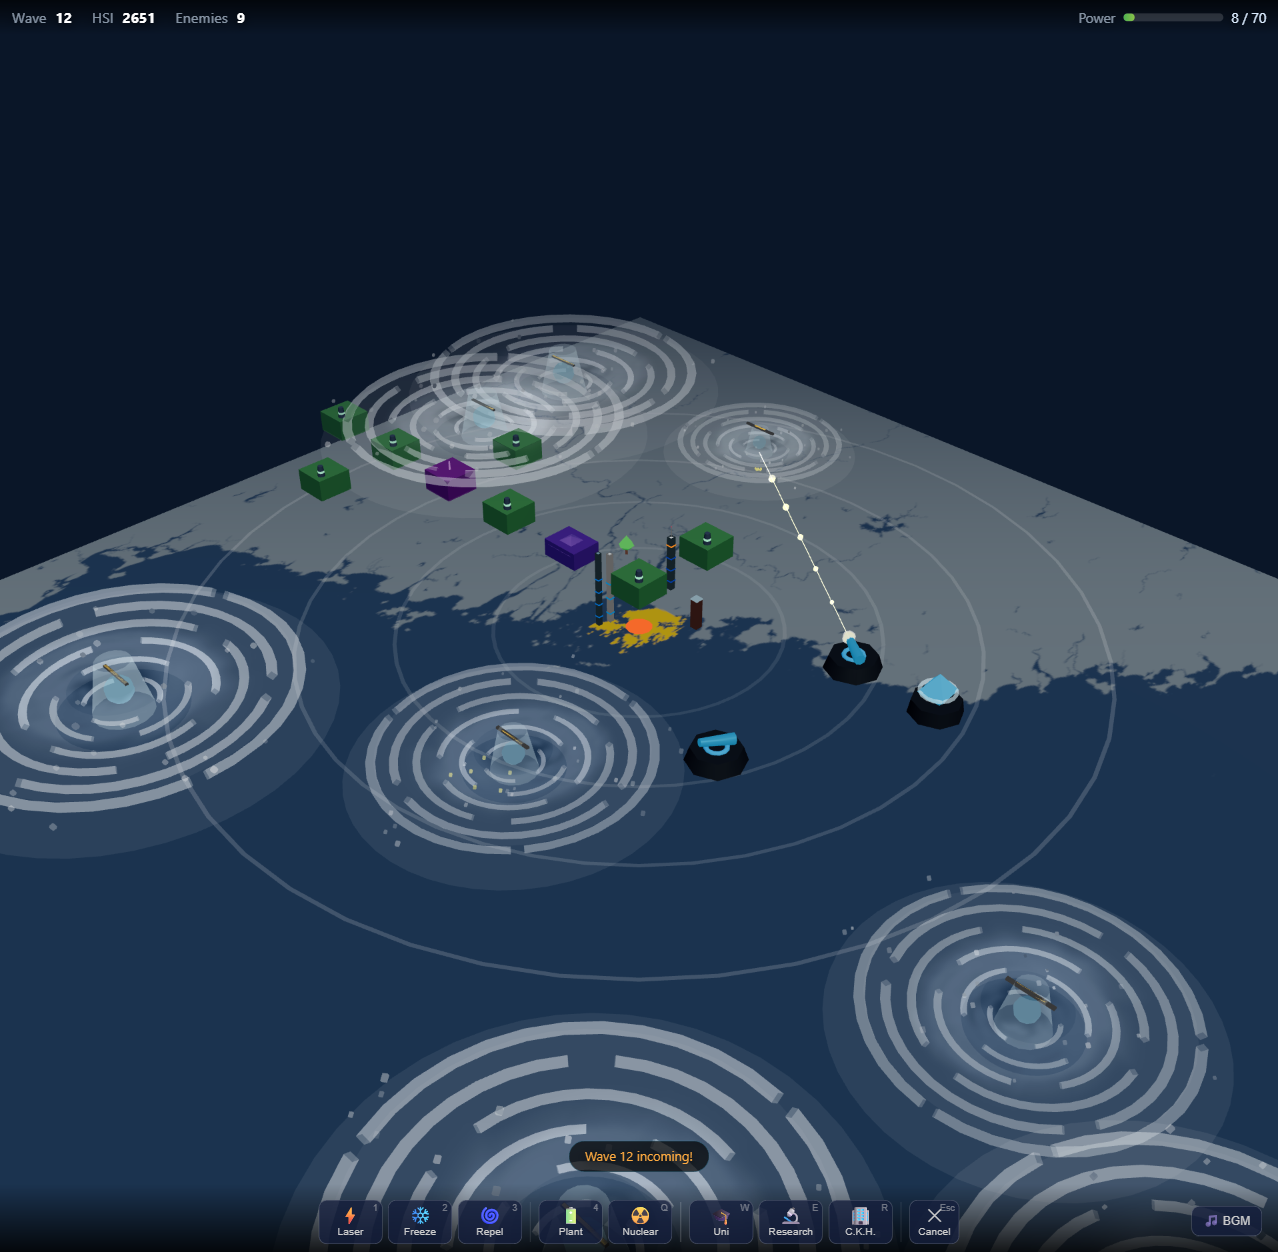
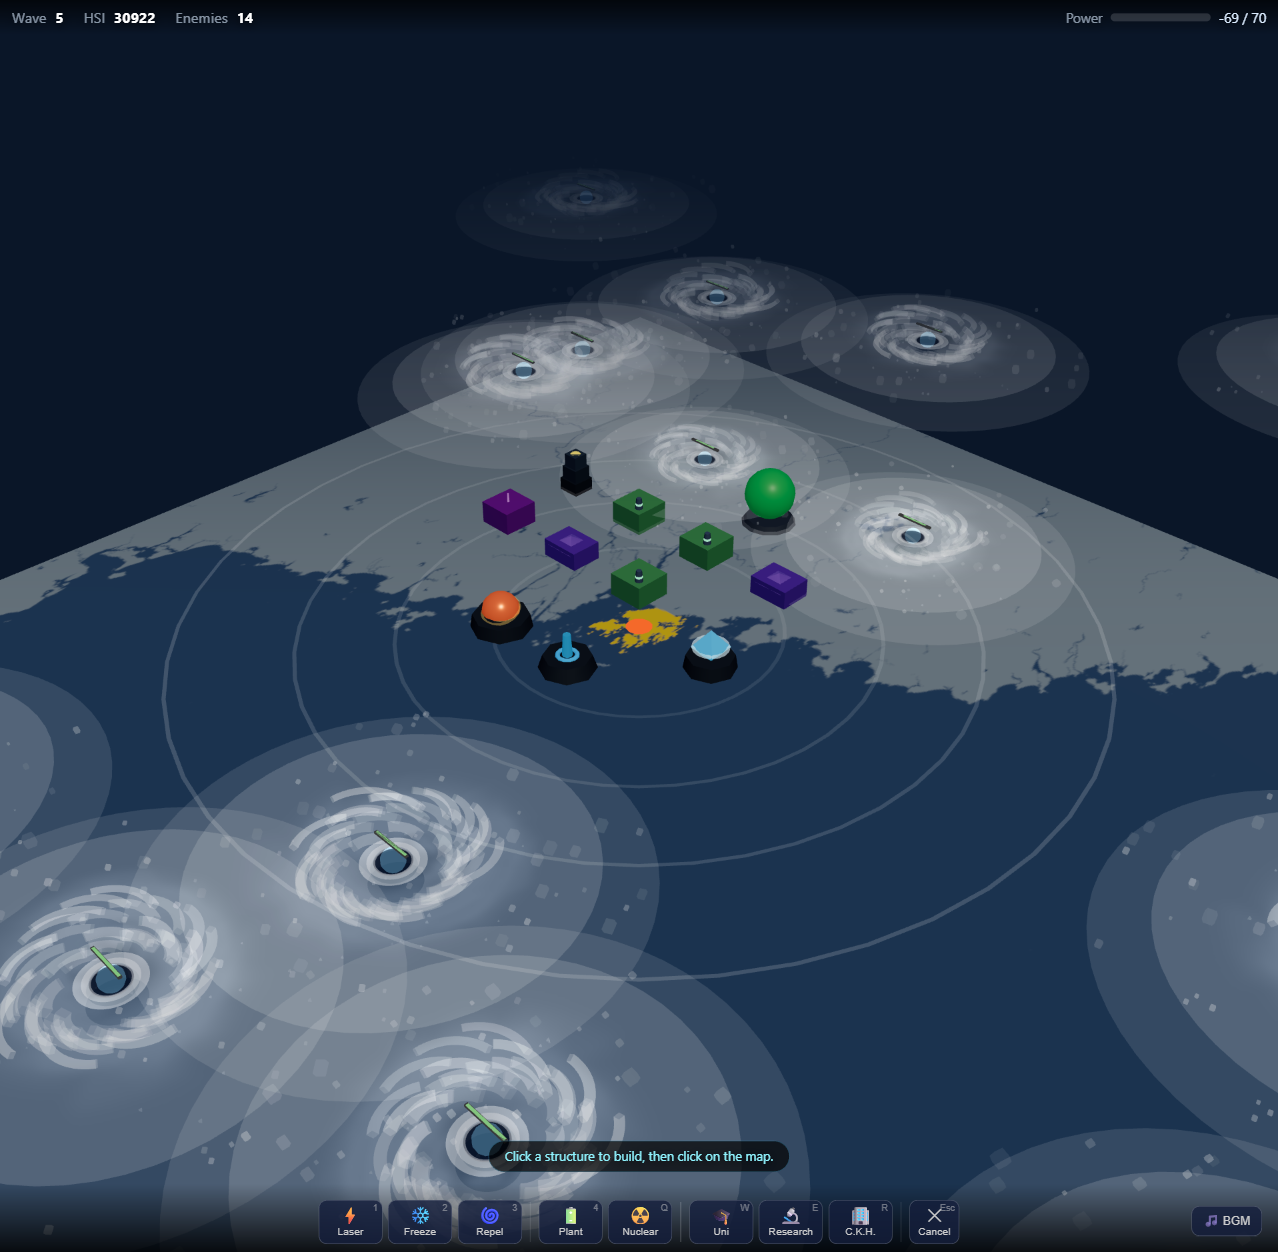
Redesign typhoon visuals as realistic cyclones with environmental destruction
- Realistic typhoon model: dark calm eye, bright double-ring eyewall, 4 asymmetric
  logarithmic-spiral rainbands, multi-layer cloud canopy, satellite texture overlay
- Particle system (72 total): wind streaks, cloud wisps, and rain curtain with
  differential rotation speeds
- Environmental destruction: typhoons destroy decorative scenery on contact
  anywhere (removed sea-only restriction), hit radius tracks typhoon scale
- Fix land decay: recompute distToCenter after movement for accurate land/sea
  classification each frame
- Multi-speed counterclockwise rotation (Northern Hemisphere cyclone convention)
- Screenshots show all 8 structure types: Laser/Freeze/Repel Towers, Power/
  University/Research/Nuclear Plants, CheungKong HQ
- README updated with realistic visual features section and environmental
  destruction documentation

LLM-Model: deepseek-v4-flash-free

diff --git a/games/typhoon-tycoon/enemies.js b/games/typhoon-tycoon/enemies.js
@@ -29,106 +29,187 @@ export function spawnEnemy() {
   const baseHp = CONFIG.enemyBaseHP + state.gameTime * 4;
   const hp = Math.round(baseHp * (0.8 + Math.random() * 0.4));
 
-  // ===================== 3D TyPhoon (volumetric cyclone) =====================
+  // ===================== 3D TYPHOON (realistic cyclone from above) =====================
   const typhoonGroup = new THREE.Group();
   typhoonGroup.position.set(x, 1.2, z);
-  typhoonGroup.scale.setScalar(0.4 + (hp / (CONFIG.enemyBaseHP + state.gameTime * 4)) * 1.1);
+  const initScale = 0.4 + (hp / (CONFIG.enemyBaseHP + state.gameTime * 4)) * 1.1;
+  typhoonGroup.scale.setScalar(initScale);
+  // Store visual radius in world-units for hitbox — same as original but now explicit
+  typhoonGroup.userData.hitRadius = initScale * 1.8;
 
   const allTyphoonMats = [];
 
-  // Wide cloud base deck
-  const deckMat = new THREE.MeshBasicMaterial({
-    color: 0xffffff, transparent: true, opacity: 0.08,
+  // --- OUTER CLOUD CANOPY (broad semi-transparent deck, fading edges) ---
+  const canopyMat = new THREE.MeshBasicMaterial({
+    color: 0xf0f0f0, transparent: true, opacity: 0.13,
     side: THREE.DoubleSide, depthWrite: false
   });
-  allTyphoonMats.push(deckMat);
-  const deck = new THREE.Mesh(new THREE.RingGeometry(0.8, 2.6, 48), deckMat);
-  deck.rotation.x = -Math.PI / 2;
-  deck.position.y = -0.25;
-  typhoonGroup.add(deck);
+  allTyphoonMats.push(canopyMat);
+  const canopy = new THREE.Mesh(new THREE.RingGeometry(0.3, 2.8, 64), canopyMat);
+  canopy.rotation.x = -Math.PI / 2;
+  canopy.position.y = -0.28;
+  typhoonGroup.add(canopy);
 
-  // Upper cloud wisp
-  const wispMat = new THREE.MeshBasicMaterial({
-    color: 0xffffff, transparent: true, opacity: 0.05,
+  // --- MID CLOUD LAYER (denser inner cloud mass) ---
+  const midCloudMat = new THREE.MeshBasicMaterial({
+    color: 0xfafafa, transparent: true, opacity: 0.18,
     side: THREE.DoubleSide, depthWrite: false
   });
-  allTyphoonMats.push(wispMat);
-  const wisp = new THREE.Mesh(new THREE.RingGeometry(0.6, 2.1, 40), wispMat);
-  wisp.rotation.x = -Math.PI / 2;
-  wisp.position.y = 0.12;
-  typhoonGroup.add(wisp);
+  allTyphoonMats.push(midCloudMat);
+  const midCloud = new THREE.Mesh(new THREE.RingGeometry(0.25, 2.2, 56), midCloudMat);
+  midCloud.rotation.x = -Math.PI / 2;
+  midCloud.position.y = -0.06;
+  typhoonGroup.add(midCloud);
 
-  // Eye wall
+  // --- EYE (dark blue center gap — calm eye of the storm) ---
+  const eyeGeom = new THREE.CircleGeometry(0.21, 32);
   const eyeMat = new THREE.MeshBasicMaterial({
-    color: 0xb3e5fc, transparent: true, opacity: 0.3,
+    color: 0x08192e, transparent: true, opacity: 0.72,
     side: THREE.DoubleSide, depthWrite: false
   });
   allTyphoonMats.push(eyeMat);
-  const eyeMesh = new THREE.Mesh(
-    new THREE.CylinderGeometry(0.22, 0.38, 0.75, 16, 1, true), eyeMat
-  );
-  eyeMesh.position.y = 0.1;
-  typhoonGroup.add(eyeMesh);
+  const eye = new THREE.Mesh(eyeGeom, eyeMat);
+  eye.rotation.x = -Math.PI / 2;
+  eye.position.y = 0.01;
+  typhoonGroup.add(eye);
 
-  // Core glow
+  // --- EYEWALL (bright dense ring of violent convection around eye) ---
+  const eyewallMat = new THREE.MeshBasicMaterial({
+    color: 0xe3e8f0, transparent: true, opacity: 0.48,
+    side: THREE.DoubleSide, depthWrite: false
+  });
+  allTyphoonMats.push(eyewallMat);
+  const eyewall = new THREE.Mesh(new THREE.RingGeometry(0.19, 0.36, 48), eyewallMat);
+  eyewall.rotation.x = -Math.PI / 2;
+  eyewall.position.y = 0.02;
+  typhoonGroup.add(eyewall);
+
+  // --- INNER EYEWALL (brightest, most opaque inner ring) ---
+  const innerWallMat = new THREE.MeshBasicMaterial({
+    color: 0xffffff, transparent: true, opacity: 0.35,
+    side: THREE.DoubleSide, depthWrite: false
+  });
+  allTyphoonMats.push(innerWallMat);
+  const innerWall = new THREE.Mesh(new THREE.RingGeometry(0.21, 0.28, 40), innerWallMat);
+  innerWall.rotation.x = -Math.PI / 2;
+  innerWall.position.y = 0.03;
+  typhoonGroup.add(innerWall);
+
+  // --- CORE GLOW (blue storm energy at heart of cyclone) ---
   const coreMat = new THREE.MeshBasicMaterial({
-    color: 0x4fc3f7, transparent: true, opacity: 0.55
+    color: 0x4fc3f7, transparent: true, opacity: 0.4,
+    blending: THREE.AdditiveBlending, depthWrite: false
   });
   allTyphoonMats.push(coreMat);
-  const core = new THREE.Mesh(new THREE.SphereGeometry(0.18, 10, 10), coreMat);
-  core.position.y = 0.05;
-  typhoonGroup.add(core);
+  const coreGlow = new THREE.Mesh(new THREE.SphereGeometry(0.14, 12, 12), coreMat);
+  coreGlow.position.y = 0.04;
+  typhoonGroup.add(coreGlow);
 
-  // Spiral rainbands
+  // --- SPIRAL RAINBANDS (4 asymmetric logarithmic-spiral arms) ---
+  // Arms vary in length, tightness, and opacity — real typhoons are NOT symmetric
   const armMats = [];
-  for (let arm = 0; arm < 3; arm++) {
-    const baseAngle = (arm / 3) * Math.PI * 2;
-    for (let seg = 0; seg < 6; seg++) {
-      const radius = 0.45 + seg * 0.34;
-      const arcLen = Math.PI * 0.4 + seg * 0.15;
-      const angle = baseAngle + seg * 0.85;
+  const armConfigs = [
+    { startAngle: 0.0,             segments: 12, a: 0.32, b: 0.085, opacity: 0.20 },
+    { startAngle: Math.PI * 0.72,  segments: 16, a: 0.34, b: 0.065, opacity: 0.15 },
+    { startAngle: Math.PI * 1.35,  segments: 10, a: 0.30, b: 0.100, opacity: 0.24 },
+    { startAngle: Math.PI * 1.88,  segments: 14, a: 0.31, b: 0.075, opacity: 0.17 }
+  ];
+
+  for (const cfg of armConfigs) {
+    for (let seg = 0; seg < cfg.segments; seg++) {
+      const t = seg / cfg.segments;
+      const theta = t * Math.PI * 2.3;       // each arm wraps ~1.15 full rotations
+      const radius = cfg.a * Math.exp(cfg.b * theta);
+      const angle = cfg.startAngle + theta;    // counterclockwise from start
+
+      // Arm segments thicken near core, thin at tips
+      const segWidth = 0.045 + (1 - t) * 0.035;
+      const arcLen = Math.PI * 0.38 + t * 0.22;
+
       const aMat = new THREE.MeshBasicMaterial({
-        color: 0xe3f2fd, transparent: true, opacity: 0.12 + seg * 0.05,
+        color: 0xfafafa, transparent: true,
+        opacity: cfg.opacity * (0.55 + t * 0.45),
         side: THREE.DoubleSide, depthWrite: false
       });
       armMats.push(aMat);
       allTyphoonMats.push(aMat);
+      aMat._bop = cfg.opacity * (0.55 + t * 0.45);
+
       const arc = new THREE.Mesh(
-        new THREE.TorusGeometry(radius, 0.035 + seg * 0.008, 4, 12, arcLen), aMat
+        new THREE.TorusGeometry(radius, segWidth, 4, 12, arcLen),
+        aMat
       );
       arc.rotation.x = Math.PI / 2;
       arc.rotation.z = angle;
-      arc.position.y = -0.12 + seg * 0.04;
+      arc.position.set(
+        Math.cos(angle) * radius,
+        -0.10 + seg * 0.025,   // slight vertical stacking
+        Math.sin(angle) * radius
+      );
       typhoonGroup.add(arc);
     }
   }
 
-  // Typhoon texture plane
+  // --- TEXTURE PLANE (satellite overlay for extra visual richness) ---
   const planeMat = new THREE.MeshBasicMaterial({
-    map: typhoonSpriteTexture, transparent: true, opacity: 0.2,
+    map: typhoonSpriteTexture, transparent: true, opacity: 0.14,
     side: THREE.DoubleSide, depthWrite: false, blending: THREE.AdditiveBlending
   });
   allTyphoonMats.push(planeMat);
   const texPlane = new THREE.Mesh(new THREE.PlaneGeometry(3.4, 3.4), planeMat);
   texPlane.rotation.x = -Math.PI / 2;
-  texPlane.position.y = 0.06;
+  texPlane.position.y = 0.04;
   typhoonGroup.add(texPlane);
 
-  // Orbiting particles
+  // --- PARTICLES (wind streaks + cloud wisps + rain curtain below) ---
   const particleData = [];
-  for (let i = 0; i < 24; i++) {
+  // Wind streak particles (fast tangential flow, mid-radii)
+  for (let i = 0; i < 32; i++) {
     const a = Math.random() * Math.PI * 2;
-    const r = 0.4 + Math.random() * 2.2;
+    const r = 0.28 + Math.random() * 2.4;
     const pMat = new THREE.MeshBasicMaterial({
-      color: 0xffffff, transparent: true, opacity: 0.2 + Math.random() * 0.3
+      color: 0xf2f2f2, transparent: true,
+      opacity: 0.14 + Math.random() * 0.22, depthWrite: false
     });
     allTyphoonMats.push(pMat);
     const pMesh = new THREE.Mesh(
-      new THREE.SphereGeometry(0.025 + Math.random() * 0.025, 4, 4), pMat
+      new THREE.SphereGeometry(0.02 + Math.random() * 0.03, 4, 4), pMat
     );
-    pMesh.position.set(Math.cos(a) * r, (Math.random() - 0.5) * 0.3, Math.sin(a) * r);
+    pMesh.position.set(Math.cos(a) * r, (Math.random() - 0.5) * 0.25, Math.sin(a) * r);
     typhoonGroup.add(pMesh);
-    particleData.push({ mesh: pMesh, angle: a, radius: r, speed: 0.6 + Math.random() * 0.8 });
+    particleData.push({ mesh: pMesh, angle: a, radius: r, speed: 0.8 + Math.random() * 1.4, type: 'wind' });
+  }
+  // Cloud wisp particles (larger, slower, at outer edge — diffuse canopy)
+  for (let i = 0; i < 18; i++) {
+    const a = Math.random() * Math.PI * 2;
+    const r = 1.2 + Math.random() * 1.6;
+    const pMat = new THREE.MeshBasicMaterial({
+      color: 0xfcfcfc, transparent: true,
+      opacity: 0.06 + Math.random() * 0.10, depthWrite: false
+    });
+    allTyphoonMats.push(pMat);
+    const pMesh = new THREE.Mesh(
+      new THREE.SphereGeometry(0.04 + Math.random() * 0.06, 4, 4), pMat
+    );
+    pMesh.position.set(Math.cos(a) * r, (Math.random() - 0.5) * 0.12, Math.sin(a) * r);
+    typhoonGroup.add(pMesh);
+    particleData.push({ mesh: pMesh, angle: a, radius: r, speed: 0.25 + Math.random() * 0.4, type: 'wisp' });
+  }
+  // Rain curtain particles (below cloud deck, fast, small, blue-tinted)
+  for (let i = 0; i < 22; i++) {
+    const a = Math.random() * Math.PI * 2;
+    const r = 0.25 + Math.random() * 1.6;
+    const pMat = new THREE.MeshBasicMaterial({
+      color: 0xc8ddf0, transparent: true,
+      opacity: 0.10 + Math.random() * 0.14, depthWrite: false
+    });
+    allTyphoonMats.push(pMat);
+    const pMesh = new THREE.Mesh(
+      new THREE.SphereGeometry(0.012 + Math.random() * 0.016, 3, 3), pMat
+    );
+    pMesh.position.set(Math.cos(a) * r, -0.35 - Math.random() * 0.5, Math.sin(a) * r);
+    typhoonGroup.add(pMesh);
+    particleData.push({ mesh: pMesh, angle: a, radius: r, speed: 1.2 + Math.random() * 1.8, type: 'rain' });
   }
   typhoonGroup.userData.particles = particleData;
 
@@ -147,6 +228,8 @@ export function spawnEnemy() {
     mesh: typhoonGroup,
     coreMat,
     eyeMat,
+    eyewallMat,
+    innerWallMat,
     armMats,
     allTyphoonMats,
     hpBar: { bg: hpBg, fill: hpFill },
@@ -176,8 +259,6 @@ export function updateEnemies(dt) {
   for (let i = enemies.length - 1; i >= 0; i--) {
     const e = enemies[i];
     if (!e.alive) continue;
-
-    const distToCenter = Math.sqrt(e.x * e.x + e.z * e.z);
 
     // Repel
     if (e.repelX !== 0 || e.repelZ !== 0) {
@@ -218,15 +299,13 @@ export function updateEnemies(dt) {
     const len = Math.sqrt(moveX * moveX + moveZ * moveZ);
     if (len > 0) { moveX /= len; moveZ /= len; }
 
-    // Color shift on slow
+    // Color shift on slow — freeze effect tints blue
     if (slowed) {
       e.coreMat.color.setHex(0x81d4fa);
-      e.eyeMat.color.setHex(0x90caf9);
-      for (const am of e.armMats) am.color.setHex(0x81d4fa);
+      for (const am of e.armMats) am.color.setHex(0xb3e5fc);
     } else {
       e.coreMat.color.setHex(0x4fc3f7);
-      e.eyeMat.color.setHex(0xb3e5fc);
-      for (const am of e.armMats) am.color.setHex(0xe3f2fd);
+      for (const am of e.armMats) am.color.setHex(0xfafafa);
     }
 
     e.mesh.position.x += moveX * spd;
@@ -234,10 +313,12 @@ export function updateEnemies(dt) {
     e.x = e.mesh.position.x;
     e.z = e.mesh.position.z;
 
-    // Destroy scenery as typhoon passes
-    if (distToCenter > CONFIG.islandRadius + 0.5) {
-      destroySceneryNear(e.x, e.z, 1.8);
-    }
+    // Recompute distance AFTER movement for accurate land/sea classification
+    const distToCenter = Math.sqrt(e.x * e.x + e.z * e.z);
+
+    // Destroy decorative scenery this typhoon touches (anywhere — sea or land)
+    const hitR = e.mesh.userData.hitRadius || 1.8;
+    destroySceneryNear(e.x, e.z, hitR);
 
     // Sea regen / land decay — scales with gameTime to stay visible alongside soaring enemy HP
     const hpScale = 1 + state.gameTime * 0.04; // ~5x at gameTime 100, ~9x at 200
@@ -256,10 +337,11 @@ export function updateEnemies(dt) {
       }
     }
 
-    // Size follows HP
+    // Size follows HP — also update hitbox radius for scenery destruction
     const newScale = 0.4 + (e.hp / e.maxHp) * 1.1;
     if (e.mesh.scale.x !== newScale) {
       e.mesh.scale.setScalar(newScale);
+      e.mesh.userData.hitRadius = newScale * 1.8;
     }
 
     // HP bar position
@@ -285,20 +367,32 @@ export function updateEnemies(dt) {
       e.clearedHK = true;
     }
 
-    // 3D animations
-    e.mesh.rotation.y += dt * 3;
+    // 3D animations — multi-speed counterclockwise rotation (Northern Hemisphere cyclone)
+    e.mesh.rotation.y += dt * 2.5; // whole storm rotates CCW (viewed from above)
     if (e.mesh.userData.particles) {
       for (const pd of e.mesh.userData.particles) {
-        pd.angle += dt * pd.speed;
-        pd.mesh.position.x = Math.cos(pd.angle) * pd.radius;
-        pd.mesh.position.z = Math.sin(pd.angle) * pd.radius;
+        // Wind streaks orbit fast near core, slow at edge (differential rotation)
+        const speedMod = pd.type === 'rain' ? 1.3 : (pd.type === 'wind' ? 1.0 : 0.6);
+        pd.angle += dt * pd.speed * speedMod;
+        // Slight radial oscillation for wispy feel
+        const rOsc = pd.type === 'wisp' ? pd.radius + Math.sin(state.gameTime * 2 + pd.angle) * 0.08 : pd.radius;
+        pd.mesh.position.x = Math.cos(pd.angle) * rOsc;
+        pd.mesh.position.z = Math.sin(pd.angle) * rOsc;
+        // Rain curtain bobs down
+        if (pd.type === 'rain') {
+          pd.mesh.position.y = -0.35 - Math.abs(Math.sin(state.gameTime * 3 + pd.angle)) * 0.25;
+        }
       }
     }
 
-    e.coreMat.opacity = (0.6 + Math.sin(state.gameTime * 4) * 0.1) * (0.3 + hpRatio * 0.7);
-    e.eyeMat.opacity = 0.3 * (0.3 + hpRatio * 0.7);
+    // Core glow pulses with storm intensity (brightness tied to HP ratio)
+    e.coreMat.opacity = (0.4 + Math.sin(state.gameTime * 5) * 0.08) * (0.3 + hpRatio * 0.7);
+    // Eyewall brightens as storm weakens (less cloud = more visible dense core ring)
+    e.eyewallMat.opacity = 0.48 * (0.3 + hpRatio * 0.7);
+    e.innerWallMat.opacity = 0.35 * (0.3 + hpRatio * 0.7);
+    // Spiral arms fade with HP
     for (const am of e.armMats) {
-      const base = (am._bop || 0.3);
+      const base = (am._bop || 0.2);
       am.opacity = base * (0.3 + hpRatio * 0.7);
     }
 

diff --git a/games/typhoon-tycoon/README.md b/games/typhoon-tycoon/README.md
@@ -10,19 +10,27 @@ A 2.5D browser-based tower defense game rebuilt in Three.js, inspired by the ori
 *Start screen with the Hong Kong / South China Sea map and concentric danger zone rings.*
 
 ![In-Game Action](assets/screenshot-action.png)
-*Gameplay with Laser Towers engaging incoming 3D typhoons. Each typhoon is a volumetric cyclone model featuring a hollow eye, spiral rainbands, orbiting cloud particles, and a satellite texture overlay — all spinning as a unified storm system.*
+*All 8 structure types deployed (Laser/Freeze/Repel Towers, Power/University/Research/Nuclear Plants, CheungKong HQ) defending against realistic 3D typhoons with dark calm eyes, bright eyewalls, asymmetric spiral rainbands, and multi-layer particle systems.*
 
 ## Visual Features
 
-### 3D Volumetric Typhoons
-Enemies are no longer flat sprites. Each typhoon is a **full 3D Group** constructed from:
-- **Spiral rainbands** — 3 arms of torus arc segments wrapping inward, creating the distinctive spiral structure of a tropical cyclone
-- **Eye wall** — A hollow translucent cylinder at the center, with a glowing core
-- **Cloud deck** — A wide translucent ring base with an upper wisp layer, suggesting deep convection
-- **Satellite texture** — The original `typhoon.png` rendered as a horizontal plane that rotates with the storm (not a billboard Sprite)
-- **Orbiting particles** — 24 cloud droplets that orbit the center at varying radii and speeds
+### Realistic 3D Typhoons
+Each typhoon is a **full 3D Group** modeled after real tropical cyclone satellite imagery:
 
-The entire storm system **spins on its Y axis** at a visible rate, giving a strong sense of cyclonic rotation.
+- **Dark calm eye** — A deep blue/navy circle at the center, replicating the clear eye visible from space
+- **Bright eyewall** — Two concentric rings of dense white convection surrounding the eye, where the most violent winds churn
+- **Asymmetric spiral rainbands** — 4 logarithmically-curved arms with varying segment counts and opacities, creating a natural lopsided spiral (real typhoons are never perfectly symmetric)
+- **Cloud canopy** — Two layers of semi-transparent ring decks providing the broad diffuse cloud mass
+- **Satellite texture overlay** — The original `typhoon.png` rendered as a horizontal plane with additive blending for atmospheric depth
+- **Particle system (72 total)** — Three distinct particle types:
+  - *Wind streaks* (32) — fast-tangential flow at mid-radii
+  - *Cloud wisps* (18) — large slow outer-edge particles with radial oscillation
+  - *Rain curtain* (22) — small fast blue-tinted particles bobbing below the cloud deck
+
+The storm spins **counterclockwise** (Northern Hemisphere) with **differential rotation**: inner core particles orbit faster than outer wisps. The core glow pulses with storm intensity, and all elements scale and fade with HP loss — a dying typhoon visibly shrinks and dims.
+
+### Environmental Destruction
+Typhoons destroy decorative scenery (skyscrapers and trees) on contact, leaving particle debris bursts. The contact radius scales with typhoon size (HP), so larger storms clear wider paths of destruction.
 
 ### Curved Trajectories
 Each typhoon follows a **sinusoidal wobble path** instead of a straight line toward center. The wobble amplitude is randomized per enemy and decays as it approaches the island, creating natural-looking spiral approaches like real storm tracks.
